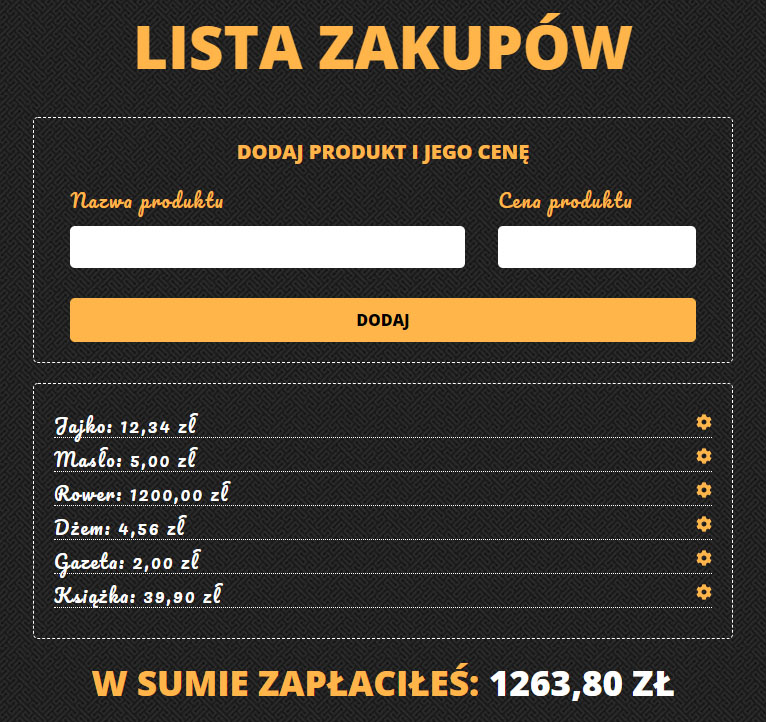
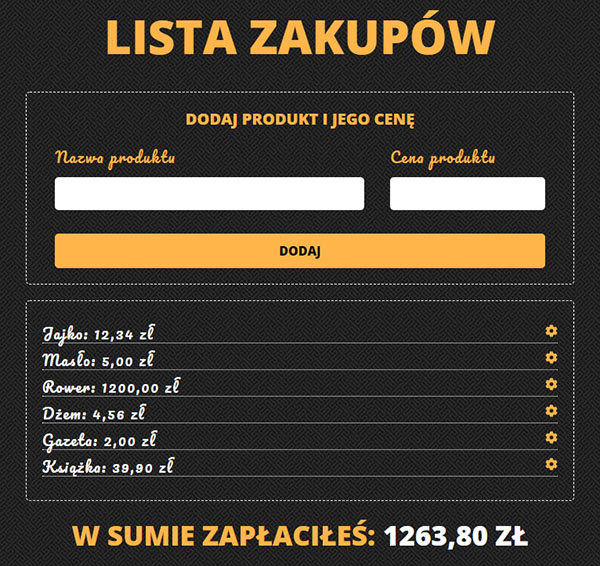
Zmiana rozmiaru obrazka + poprawki do Lighthouse (audit w devtools Chrome)

diff --git a/index.html b/index.html
@@ -286,7 +286,7 @@
       <p class="description">Wszystkie projekty możesz zobaczyć na moim profilu na GitHubie</p>
       <div class="portfolio-grid">
         <figure class="portfolio-example-wrapper">
-          <a class="portfolio-link" href="https://kp1976.github.io/LOAN-CALCULATOR/" target="_blank" rel="noreferrer">
+          <a class="portfolio-link" href="https://kp1976.github.io/LOAN-CALCULATOR/" target="_blank" rel="noopener">
             <img class="portfolio-example-img" src="img/Portfolio/kalkulator_pozyczkowy.jpg" alt="obraz aplikacji kalkulatora">
           </a>
           <div class="portfolio-example-description-wrapper">
@@ -295,7 +295,7 @@
           </div>
         </figure>
         <figure class="portfolio-example-wrapper">
-          <a class="portfolio-link" href="https://kp1976.github.io/LISTA-KSIAZEK" target="_blank" rel="noreferrer">
+          <a class="portfolio-link" href="https://kp1976.github.io/LISTA-KSIAZEK" target="_blank" rel="noopener">
             <img class="portfolio-example-img" src="img/Portfolio/lista_ksiazek.jpg" alt="obraz aplikacji listy książek">
           </a>
           <div class="portfolio-example-description-wrapper">
@@ -304,7 +304,7 @@
           </div>
         </figure>
         <figure class="portfolio-example-wrapper">
-          <a class="portfolio-link" href="https://kp1976.github.io/TO-DOver3" target="_blank" rel="noreferrer">
+          <a class="portfolio-link" href="https://kp1976.github.io/TO-DOver3" target="_blank" rel="noopener">
             <img class="portfolio-example-img" src="img/Portfolio/lista_zadan.jpg" alt="obraz aplikacji listy zadań">
           </a>
           <div class="portfolio-example-description-wrapper">
@@ -314,7 +314,7 @@
           </div>
         </figure>
         <figure class="portfolio-example-wrapper">
-          <a class="portfolio-link" href="https://kp1976.github.io/LISTA-ZAKUPOW" target="_blank" rel="noreferrer">
+          <a class="portfolio-link" href="https://kp1976.github.io/LISTA-ZAKUPOW" target="_blank" rel="noopener">
             <img class="portfolio-example-img" src="img/Portfolio/lista_zakupow.jpg" alt="obraz aplikacji listy zakupów">
           </a>
           <div class="portfolio-example-description-wrapper">
@@ -324,7 +324,7 @@
           </div>
         </figure>
         <figure class="portfolio-example-wrapper">
-          <a class="portfolio-link" href="https://kp1976.github.io/Materialize-Biuro_Podrozy" target="_blank" rel="noreferrer">
+          <a class="portfolio-link" href="https://kp1976.github.io/Materialize-Biuro_Podrozy" target="_blank" rel="noopener">
             <img class="portfolio-example-img" src="img/Portfolio/materialize/biuro_podrozy.jpg" alt="obraz strony biura podróży">
           </a>
           <div class="portfolio-example-description-wrapper">
@@ -334,7 +334,7 @@
           </div>
         </figure>
         <figure class="portfolio-example-wrapper">
-          <a class="portfolio-link" href="https://kp1976.github.io/Materialize-Biznes" target="_blank" rel="noreferrer">
+          <a class="portfolio-link" href="https://kp1976.github.io/Materialize-Biznes" target="_blank" rel="noopener">
             <img class="portfolio-example-img" src="img/Portfolio/materialize/biznes.jpg" alt="obraz strony biznesowej">
           </a>
           <div class="portfolio-example-description-wrapper">
@@ -344,7 +344,7 @@
           </div>
         </figure>
         <figure class="portfolio-example-wrapper">
-          <a class="portfolio-link" href="https://kp1976.github.io/Materialize-Firma_IT" target="_blank" rel="noreferrer">
+          <a class="portfolio-link" href="https://kp1976.github.io/Materialize-Firma_IT" target="_blank" rel="noopener">
             <img class="portfolio-example-img" src="img/Portfolio/materialize/firma_IT.jpg" alt="obraz strony firmy z branży IT">
           </a>
           <div class="portfolio-example-description-wrapper">
@@ -354,7 +354,7 @@
           </div>
         </figure>
         <figure class="portfolio-example-wrapper">
-          <a class="portfolio-link" href="https://kp1976.github.io/Materialize-Panel_Logowania" target="_blank" rel="noreferrer">
+          <a class="portfolio-link" href="https://kp1976.github.io/Materialize-Panel_Logowania" target="_blank" rel="noopener">
             <img class="portfolio-example-img" src="img/Portfolio/materialize/panel_logowania.jpg" alt="obraz strony z panelem logowania ">
           </a>
           <div class="portfolio-example-description-wrapper">
@@ -364,7 +364,7 @@
           </div>
         </figure>
         <figure class="portfolio-example-wrapper">
-          <a class="portfolio-link" href="https://kp1976.github.io/Materialize-Projektowanie/" target="_blank" rel="noreferrer">
+          <a class="portfolio-link" href="https://kp1976.github.io/Materialize-Projektowanie/" target="_blank" rel="noopener">
             <img class="portfolio-example-img" src="img/Portfolio/materialize/projektowanie.jpg" alt="obraz strony o projektowaniu">
           </a>
           <div class="portfolio-example-description-wrapper">
@@ -373,7 +373,7 @@
           </div>
         </figure>
         <figure class="portfolio-example-wrapper">
-          <a class="portfolio-link" href="https://kp1976.github.io/POGODA/" target="_blank" rel="noreferrer">
+          <a class="portfolio-link" href="https://kp1976.github.io/POGODA/" target="_blank" rel="noopener">
             <img class="portfolio-example-img" src="img/Portfolio/pogoda.jpg" alt="obraz aplikacji o pogodzie">
           </a>
           <div class="portfolio-example-description-wrapper">
@@ -382,7 +382,7 @@
           </div>
         </figure>
         <figure class="portfolio-example-wrapper">
-          <a class="portfolio-link" href="https://kp1976.github.io/REDDIT" target="_blank" rel="noreferrer">
+          <a class="portfolio-link" href="https://kp1976.github.io/REDDIT" target="_blank" rel="noopener">
             <img class="portfolio-example-img" src="img/Portfolio/reddit.jpg" alt="obraz aplikacji wyszukiwarki reddit">
           </a>
           <div class="portfolio-example-description-wrapper">
@@ -391,7 +391,7 @@
           </div>
         </figure>
         <figure class="portfolio-example-wrapper">
-          <a class="portfolio-link" href="https://kp1976.github.io/GITHUB-USERS-FINDER" target="_blank" rel="noreferrer">
+          <a class="portfolio-link" href="https://kp1976.github.io/GITHUB-USERS-FINDER" target="_blank" rel="noopener">
             <img class="portfolio-example-img" src="img/Portfolio/github_wyszukiwarka.jpg" alt="obraz aplikacji wyszukiwarki użytkowników GitHuba">
           </a>
           <div class="portfolio-example-description-wrapper">
@@ -400,7 +400,7 @@
           </div>
         </figure>
         <figure class="portfolio-example-wrapper">
-          <a class="portfolio-link" href="https://kp1976.github.io/WEEKLY-WEBDEV-CHALLENGE-1" target="_blank" rel="noreferrer">
+          <a class="portfolio-link" href="https://kp1976.github.io/WEEKLY-WEBDEV-CHALLENGE-1" target="_blank" rel="noopener">
             <img class="portfolio-example-img" src="img/Portfolio/WeeklyWebDevChallenge_01.jpg" alt="obraz strony z zadania numer 1 WeeklyWebDevChallenge">
           </a>
           <div class="portfolio-example-description-wrapper">
@@ -409,7 +409,7 @@
           </div>
         </figure>
         <figure class="portfolio-example-wrapper">
-          <a class="portfolio-link" href="https://kp1976.github.io/WEB_DEV_CHALLENGE_NR37" target="_blank" rel="noreferrer">
+          <a class="portfolio-link" href="https://kp1976.github.io/WEB_DEV_CHALLENGE_NR37" target="_blank" rel="noopener">
             <img class="portfolio-example-img" src="img/Portfolio/WeeklyWebDevChallenge_37.jpg" alt="obraz strony z zadania numer 37 WeeklyWebDevChallenge">
           </a>
           <div class="portfolio-example-description-wrapper">
@@ -418,7 +418,7 @@
           </div>
         </figure>
         <figure class="portfolio-example-wrapper">
-          <a class="portfolio-link" href="https://kp1976.github.io/NUMBER-GUESSER" target="_blank" rel="noreferrer">
+          <a class="portfolio-link" href="https://kp1976.github.io/NUMBER-GUESSER" target="_blank" rel="noopener">
             <img class="portfolio-example-img" src="img/Portfolio/zgadnij_liczbe.jpg" alt="obraz aplikacji zgadnij liczbę">
           </a>
           <div class="portfolio-example-description-wrapper">
@@ -437,13 +437,13 @@
         <br> kpawlowski1976@gmail.com
       </p>
       <div class="social-media">
-        <a class="link" href="https://www.facebook.com/KP1976PL" target="_blank" aria-label="Facebook" rel="noreferrer">
+        <a class="link" href="https://www.facebook.com/KP1976PL" target="_blank" aria-label="Facebook" rel="noopener">
           <i class="fab fa-facebook"></i>
         </a>
-        <a class="link" href="https://github.com/KP1976" target="_blank" aria-label="GitHub" rel="noreferrer">
+        <a class="link" href="https://github.com/KP1976" target="_blank" aria-label="GitHub" rel="noopener">
           <i class="fab fa-github"></i>
         </a>
-        <a class="link" href="https://www.linkedin.com/in/krzysztof-pawłowski-74aa01154" target="_blank" aria-label="LinkedIn" rel="noreferrer">
+        <a class="link" href="https://www.linkedin.com/in/krzysztof-pawłowski-74aa01154" target="_blank" aria-label="LinkedIn" rel="noopener">
           <i class="fab fa-linkedin-in"></i>
         </a>
       </div>
